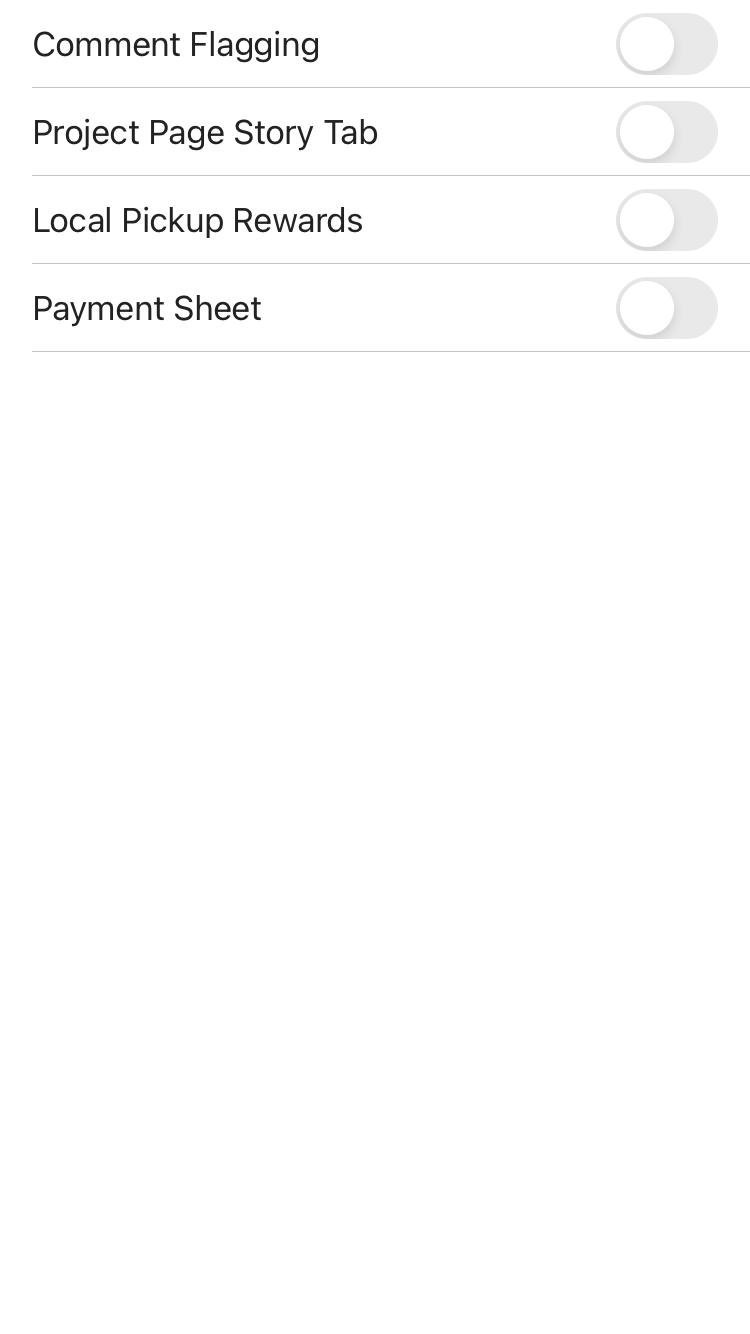
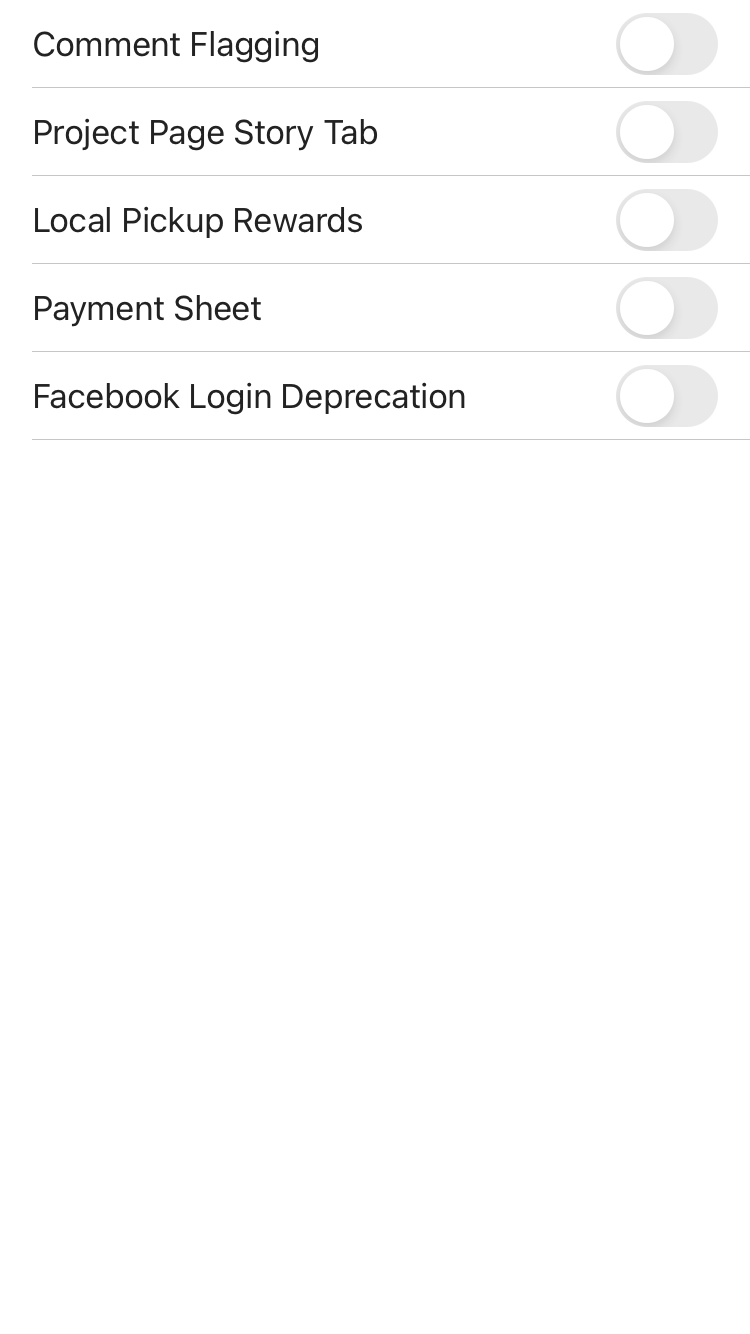
[WEB-697] Adds new Facebook Login Deprecation feature flag (#1715)
* Adds new Facebook Login Deprecation feature flag

* Updates snapshot reference image for tests

Changed region(s): [[0.0307, 0.2766, 0.6133, 0.3073], [0.828, 0.2766, 0.92, 0.3381]]

diff --git a/Library/ViewModels/OptimizelyFeatureFlagToolsViewModelTests.swift b/Library/ViewModels/OptimizelyFeatureFlagToolsViewModelTests.swift
@@ -25,7 +25,8 @@ final class OptimizelyFlagToolsViewModelTests: TestCase {
         OptimizelyFeature.commentFlaggingEnabled.rawValue: true,
         OptimizelyFeature.projectPageStoryTabEnabled.rawValue: true,
         OptimizelyFeature.rewardLocalPickupEnabled.rawValue: true,
-        OptimizelyFeature.paymentSheetEnabled.rawValue: true
+        OptimizelyFeature.paymentSheetEnabled.rawValue: true,
+        OptimizelyFeature.facebookLoginDeprecationEnabled.rawValue: true
       ]
 
     withEnvironment(optimizelyClient: mockOptimizelyClient) {
@@ -47,7 +48,8 @@ final class OptimizelyFlagToolsViewModelTests: TestCase {
         OptimizelyFeature.commentFlaggingEnabled.rawValue: false,
         OptimizelyFeature.projectPageStoryTabEnabled.rawValue: false,
         OptimizelyFeature.rewardLocalPickupEnabled.rawValue: false,
-        OptimizelyFeature.paymentSheetEnabled.rawValue: false
+        OptimizelyFeature.paymentSheetEnabled.rawValue: false,
+        OptimizelyFeature.facebookLoginDeprecationEnabled.rawValue: false
       ]
 
     withEnvironment(optimizelyClient: mockOptimizelyClient) {

diff --git a/Library/ViewModels/OptimizelyFeatureFlagToolsViewModel.swift b/Library/ViewModels/OptimizelyFeatureFlagToolsViewModel.swift
@@ -104,6 +104,9 @@ private func getValueFromUserDefaults(for feature: OptimizelyFeature) -> Bool? {
   case .paymentSheetEnabled:
     return AppEnvironment.current.userDefaults
       .optimizelyFeatureFlags[OptimizelyFeature.paymentSheetEnabled.rawValue]
+  case .facebookLoginDeprecationEnabled:
+    return AppEnvironment.current.userDefaults
+      .optimizelyFeatureFlags[OptimizelyFeature.facebookLoginDeprecationEnabled.rawValue]
   }
 }
 
@@ -123,5 +126,8 @@ private func setValueInUserDefaults(for feature: OptimizelyFeature, and value: B
   case .paymentSheetEnabled:
     return AppEnvironment.current.userDefaults
       .optimizelyFeatureFlags[OptimizelyFeature.paymentSheetEnabled.rawValue] = value
+  case .facebookLoginDeprecationEnabled:
+    return AppEnvironment.current.userDefaults
+      .optimizelyFeatureFlags[OptimizelyFeature.facebookLoginDeprecationEnabled.rawValue] = value
   }
 }

diff --git a/Library/OptimizelyFeature.swift b/Library/OptimizelyFeature.swift
@@ -5,6 +5,7 @@ public enum OptimizelyFeature: String, CaseIterable {
   case projectPageStoryTabEnabled = "project_page_v2_story"
   case rewardLocalPickupEnabled = "ios_local_pickup"
   case paymentSheetEnabled = "ios_payment_sheet"
+  case facebookLoginDeprecationEnabled = "ios_facebook_deprecation"
 }
 
 extension OptimizelyFeature: CustomStringConvertible {
@@ -14,6 +15,7 @@ extension OptimizelyFeature: CustomStringConvertible {
     case .projectPageStoryTabEnabled: return "Project Page Story Tab"
     case .rewardLocalPickupEnabled: return "Local Pickup Rewards"
     case .paymentSheetEnabled: return "Payment Sheet"
+    case .facebookLoginDeprecationEnabled: return "Facebook Login Deprecation"
     }
   }
 }

diff --git a/Kickstarter-iOS/Views/Controllers/OptimizelyFeatureFlagToolsViewControllerTests.swift b/Kickstarter-iOS/Views/Controllers/OptimizelyFeatureFlagToolsViewControllerTests.swift
@@ -23,7 +23,8 @@ final class OptimizelyFeatureFlagToolsViewControllerTests: TestCase {
       |> \.features .~ [
         OptimizelyFeature.commentFlaggingEnabled.rawValue: false,
         OptimizelyFeature.projectPageStoryTabEnabled.rawValue: false,
-        OptimizelyFeature.rewardLocalPickupEnabled.rawValue: false
+        OptimizelyFeature.rewardLocalPickupEnabled.rawValue: false,
+        OptimizelyFeature.facebookLoginDeprecationEnabled.rawValue: false
       ]
 
     withEnvironment(language: .en, mainBundle: MockBundle(), optimizelyClient: mockOptimizelyClient) {

diff --git a/Library/OptimizelyFeature+Helpers.swift b/Library/OptimizelyFeature+Helpers.swift
@@ -27,3 +27,10 @@ public func featurePaymentSheetEnabled() -> Bool {
     (AppEnvironment.current.optimizelyClient?
       .isFeatureEnabled(featureKey: OptimizelyFeature.paymentSheetEnabled.rawValue) ?? false)
 }
+
+public func facebookLoginDeprecationEnabled() -> Bool {
+  return AppEnvironment.current.userDefaults
+    .optimizelyFeatureFlags[OptimizelyFeature.facebookLoginDeprecationEnabled.rawValue] ??
+    (AppEnvironment.current.optimizelyClient?
+      .isFeatureEnabled(featureKey: OptimizelyFeature.facebookLoginDeprecationEnabled.rawValue) ?? false)
+}

diff --git a/Library/OptimizelyFeature+HelpersTests.swift b/Library/OptimizelyFeature+HelpersTests.swift
@@ -74,4 +74,13 @@ final class OptimizelyFeatureHelpersTests: TestCase {
       XCTAssertFalse(featurePaymentSheetEnabled())
     }
   }
+
+  func testFacebookDeprecation_Optimizely_FeatureFlag_False() {
+    let mockOptimizelyClient = MockOptimizelyClient()
+      |> \.features .~ [OptimizelyFeature.facebookLoginDeprecationEnabled.rawValue: false]
+
+    withEnvironment(optimizelyClient: mockOptimizelyClient) {
+      XCTAssertFalse(facebookLoginDeprecationEnabled())
+    }
+  }
 }

diff --git a/Library/OptimizelyClientTypeTests.swift b/Library/OptimizelyClientTypeTests.swift
@@ -24,7 +24,7 @@ final class OptimizelyClientTypeTests: TestCase {
         OptimizelyFeature.commentFlaggingEnabled.rawValue: true
       ]
 
-    XCTAssert(mockOptimizelyClient.allFeatures().count == 4)
+    XCTAssert(mockOptimizelyClient.allFeatures().count == 5)
   }
 
   func testVariantForExperiment_NoError() {
